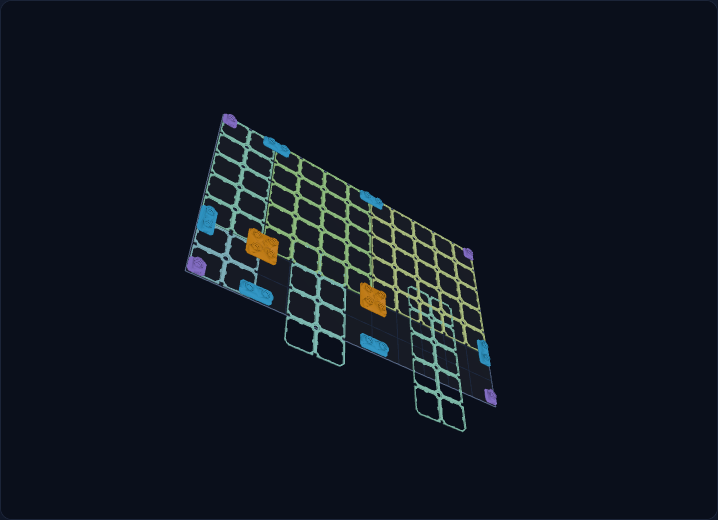
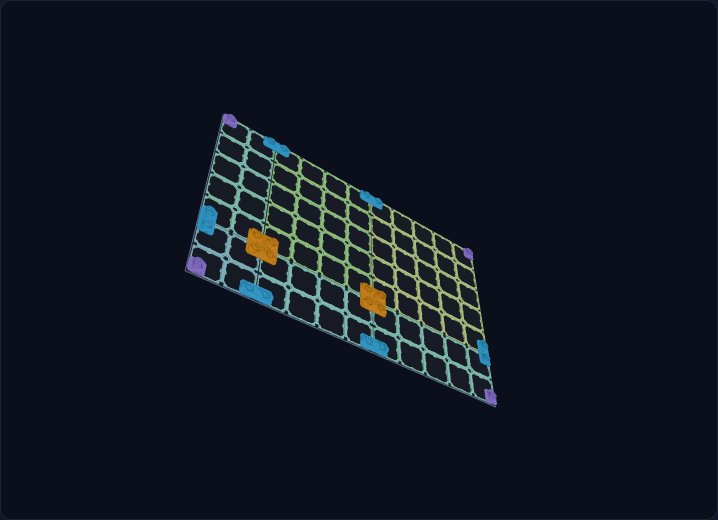
Fix stack transforms: rotate non-square plates and place direct 3MF bboxes on the 50mm grid

Changed region(s): [[0.337, 0.4923, 0.7047, 0.8308]]

diff --git a/index.html b/index.html
@@ -1814,8 +1814,9 @@
   function meshRotFor(entry, w, h) {
     const nw = entry.bbox.max[0] - entry.bbox.min[0];
     const nh = entry.bbox.max[1] - entry.bbox.min[1];
-    if (Math.abs(nw - w) <= 1.5 && Math.abs(nh - h) <= 1.5) return 0;
-    if (Math.abs(nh - w) <= 1.5 && Math.abs(nw - h) <= 1.5) return 1;
+    const tol = Math.max(3, state.unit * 0.12);
+    if (Math.abs(nw - w) <= tol && Math.abs(nh - h) <= tol) return 0;
+    if (Math.abs(nh - w) <= tol && Math.abs(nw - h) <= tol) return 1;
     return 0;
   }
 
@@ -2501,6 +2502,10 @@
               entry: entry,
               mesh: meshIndex.get(key),
               ext: !!piece.ext,
+              direct: true,
+              directX: state.bedMargin + baseX + (pi.dx || 0),
+              directY: state.bedMargin + baseY + (pi.dy || 0),
+              meshRot: meshRotFor(entry, pi.item.w, pi.item.h),
               zOffset: stackZ,
               label: (piece.ext ? baseKey + " + bord" : baseKey) + " · pile " + (layerIndex + 1) + "/" + stack.items.length,
               wid: 2 + instanceId * 2,
@@ -2580,6 +2585,28 @@
 
     instances.forEach(function (inst) {
       const entry = inst.entry;
+      if (inst.direct) {
+        const bb = entry.bbox;
+        const minX = bb.min[0], minY = bb.min[1], maxX = bb.max[0], maxY = bb.max[1];
+        let tx, ty;
+        if (inst.meshRot) {
+          tx = inst.directX + maxY;
+          ty = inst.directY - minX;
+        } else {
+          tx = inst.directX - minX;
+          ty = inst.directY - minY;
+        }
+        const tz = (inst.zOffset || 0) - bb.min[2];
+        const row = Math.floor(inst.bin / plateCols);
+        const col = inst.bin % plateCols;
+        const ox = col * bedX * 1.2;
+        const oy = -row * bedY * 1.2;
+        wrappers.push('<object id="' + inst.wid + '" type="model"><components><component p:path="/3D/Objects/mesh_' + inst.mesh + '.model" objectid="' + inst.mesh + '" p:UUID="' + uuid() + '" transform="1 0 0 0 1 0 0 0 1 0 0 0"/></components></object>');
+        items.push('<item objectid="' + inst.wid + '" p:UUID="' + uuid() + '" transform="' + transformString(inst.meshRot, ox + tx, oy + ty, tz) + '" printable="1"' + (inst.zOffset ? ' auto_drop="0"' : '') + '/>');
+        modelObjects.push('<object id="' + inst.wid + '"><metadata key="name" value="' + xmlEsc(inst.label) + '"/><metadata key="extruder" value="1"/></object>');
+        plateMap[inst.bin].push(inst);
+        return;
+      }
       const nativeW = entry.bbox.max[0] - entry.bbox.min[0];
       const nativeH = entry.bbox.max[1] - entry.bbox.min[1];
       const cx = (entry.bbox.min[0] + entry.bbox.max[0]) / 2;
@@ -2587,9 +2614,10 @@
       const minZ = entry.bbox.min[2];
 
       let rot = 0;
+      const rotTol = Math.max(3, state.unit * 0.12);
       if (inst.rotExplicit !== undefined) rot = inst.rotExplicit;
-      else if (Math.abs(nativeW - inst.w) <= 1.5 && Math.abs(nativeH - inst.h) <= 1.5) rot = 0;
-      else if (Math.abs(nativeH - inst.w) <= 1.5 && Math.abs(nativeW - inst.h) <= 1.5) rot = 1;
+      else if (Math.abs(nativeW - inst.w) <= rotTol && Math.abs(nativeH - inst.h) <= rotTol) rot = 0;
+      else if (Math.abs(nativeH - inst.w) <= rotTol && Math.abs(nativeW - inst.h) <= rotTol) rot = 1;
       else rot = nativeW > nativeH && inst.w < inst.h ? 1 : 0;
 
       const tx = state.bedMargin + inst.x + inst.w / 2;
